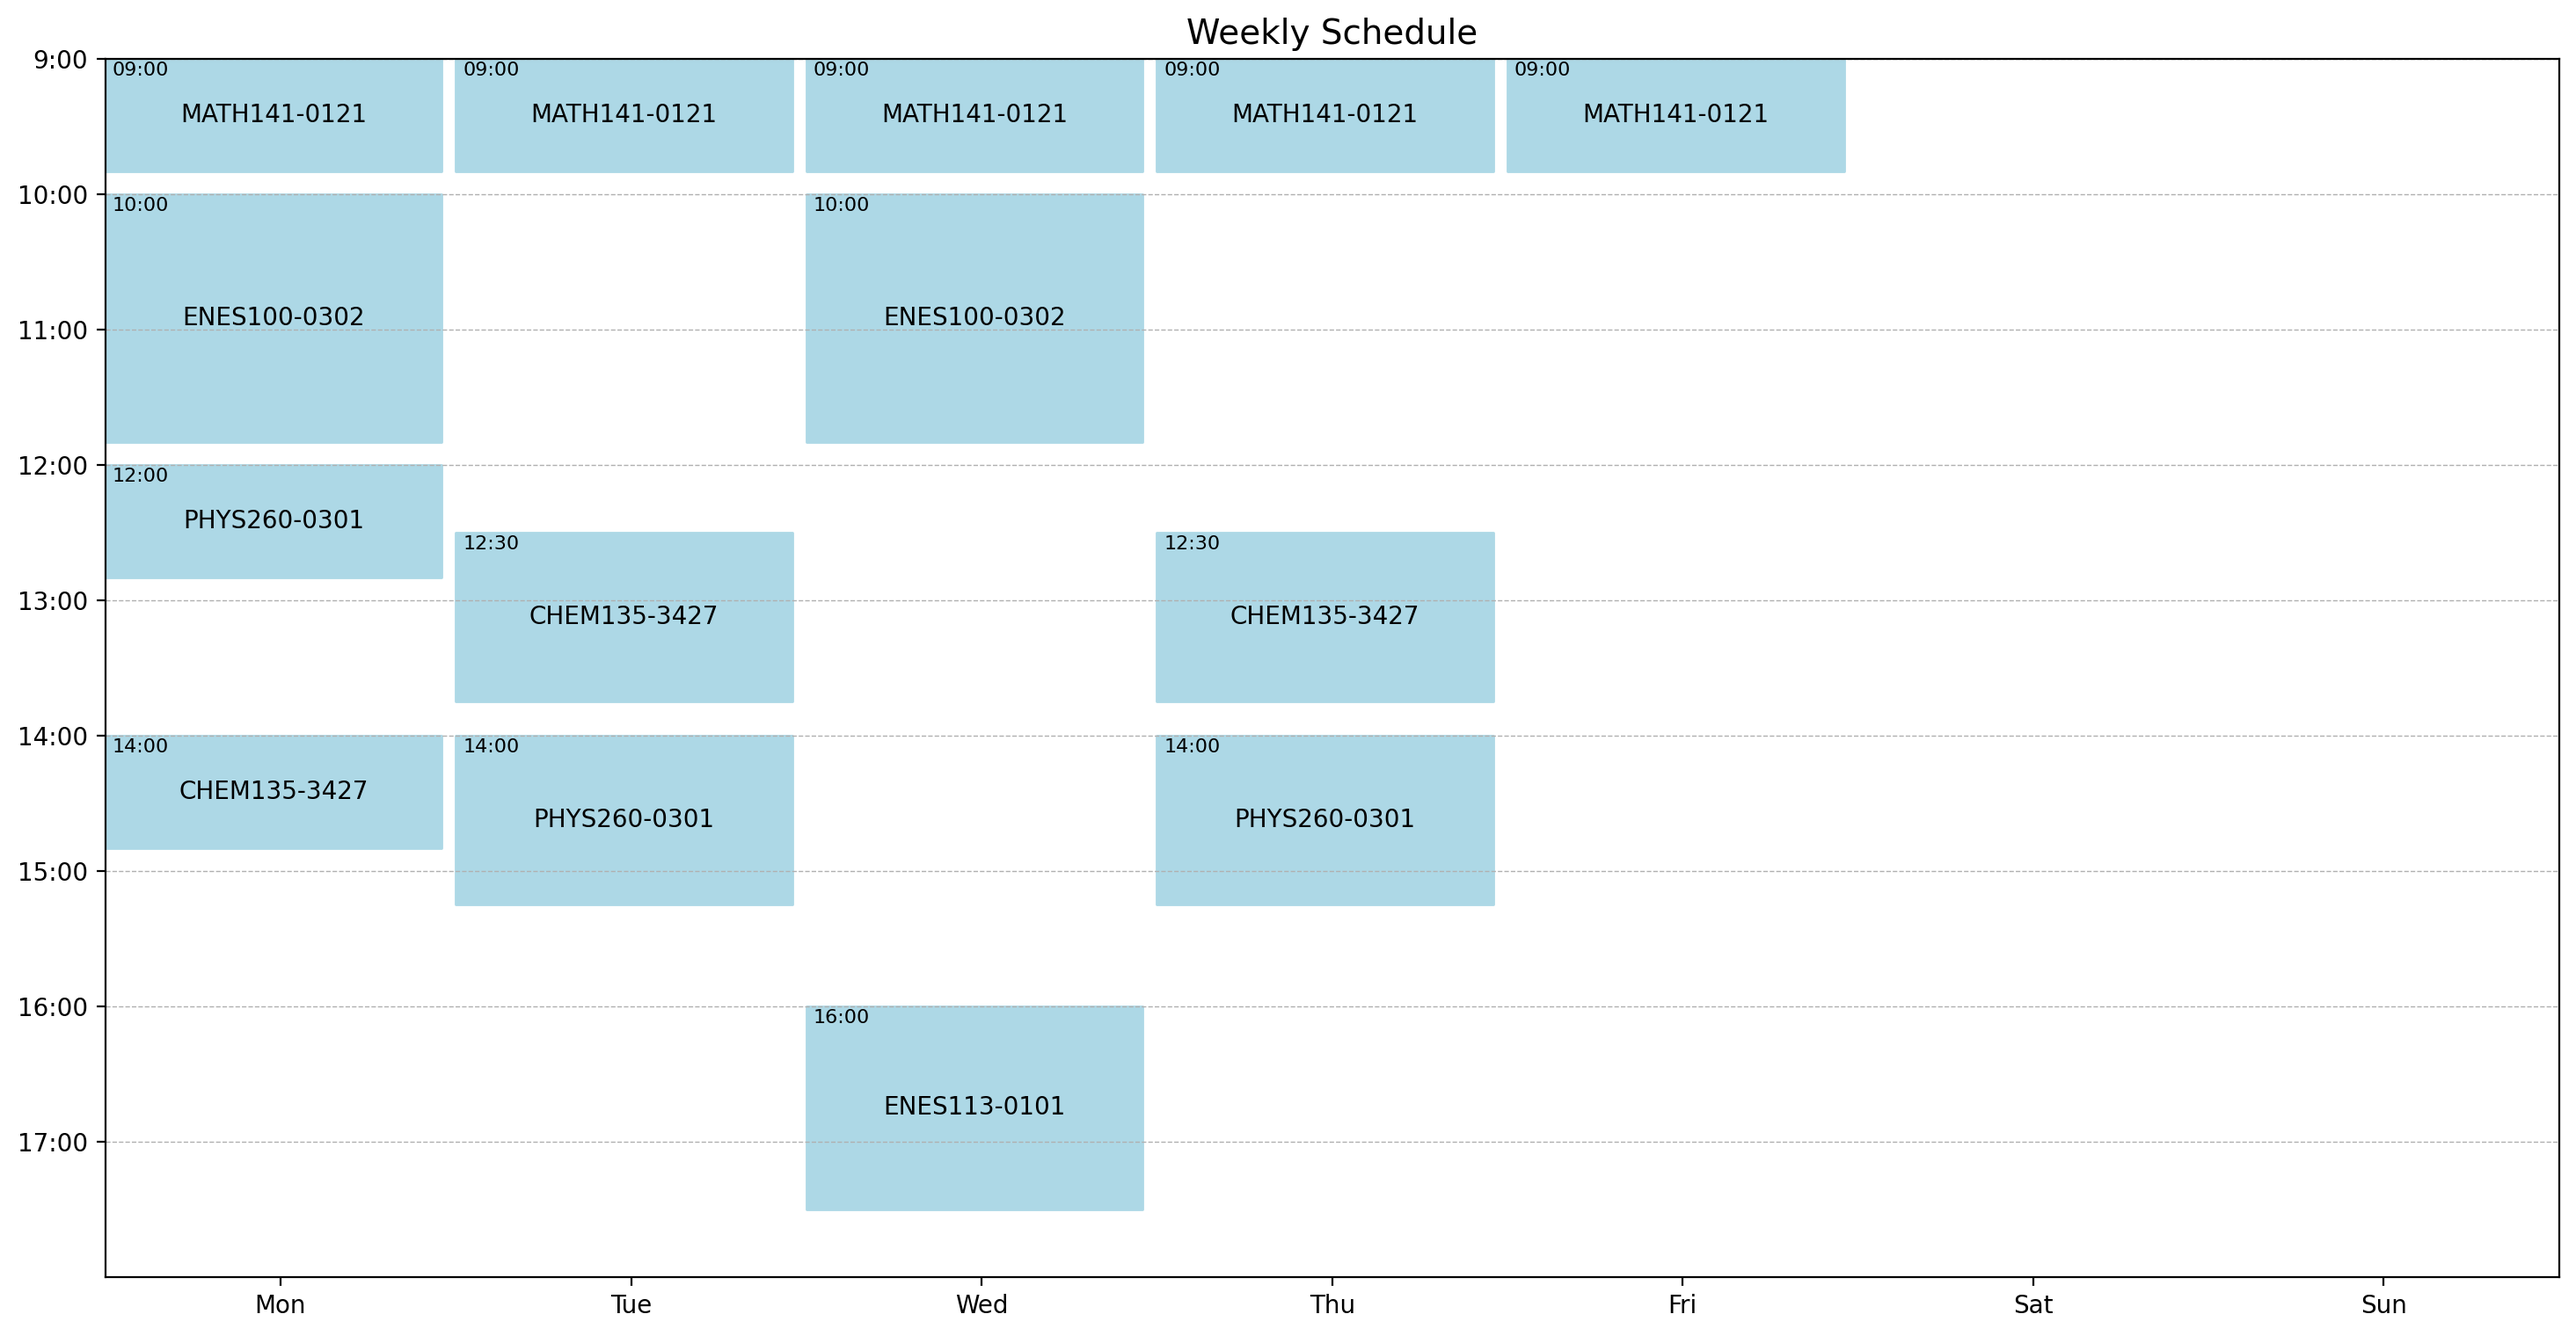
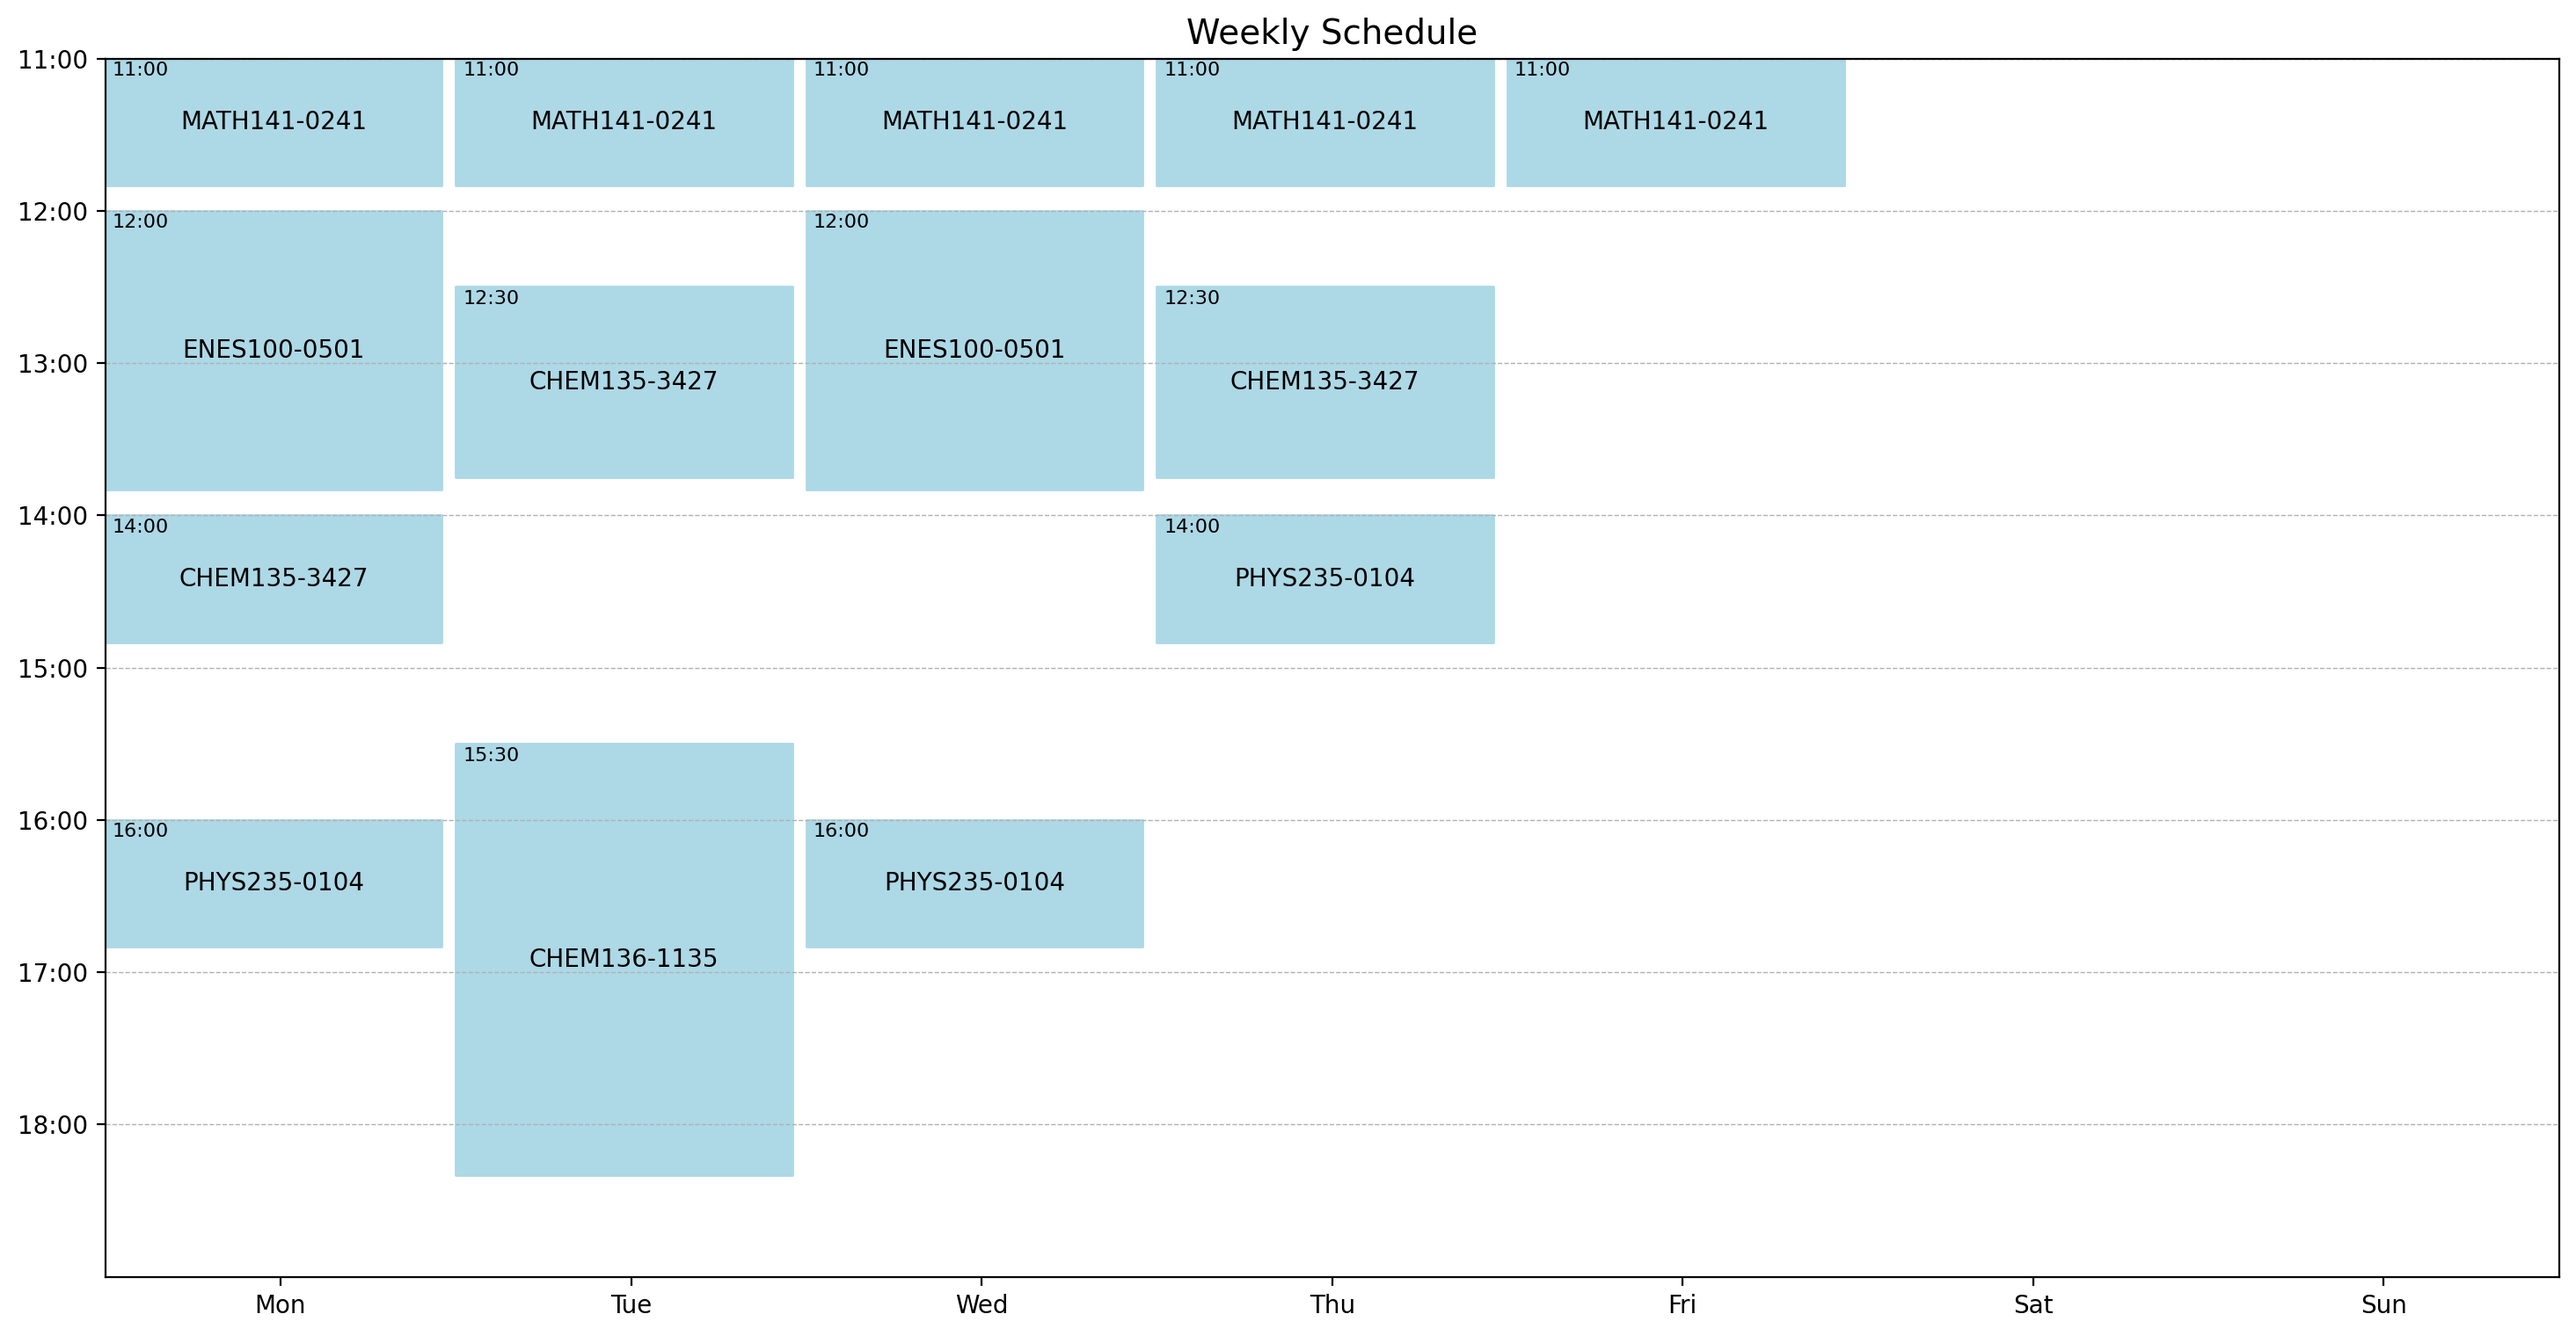
priority system, input file, latest class

diff --git a/schedule_builder.py b/schedule_builder.py
@@ -2,6 +2,7 @@ import json
 from datetime import datetime
 import api_interface as api
 import visualizer as viz
+import random
 
 """ SCHEDULE BUILDER -- Notes
 
@@ -30,13 +31,18 @@ Options for priorities:
 
 """
 
-courses = ["MATH141", "ENES113", "PHYS260", "CHEM135", "ENES100"]
+# courses = ["MATH141", "ENES113", "PHYS260", "CHEM135", "ENES100"]
+# courses = ["MATH141", "ENES102", "PHYS235", "CHEM135", "CHEM136"]
+# random.shuffle(courses)
+courses = []
 semester = "202308"
 FC = False      # Freshmen connection
 
-priority_list = [
-    {"priority": "earliest_class", "value": ["10:00am"]}
-]
+# priority_list = [
+#     {"priority": "latest_class", "value": ["2:00pm"]},
+#     {"priority": "earliest_class", "value": ["8:00am"]}
+# ]
+
 priority = 0
 
 schedule = {
@@ -52,20 +58,22 @@ def jprint(obj):
     text = json.dumps(obj, sort_keys=True, indent=4)
     print(text)
 
-def add_section(section_id):
+def add_section(section_id, constraints):
     """Adds a new section from section_id. Returns new section object."""
     new_section = Class(section_id)
     new_section.add_courses()
-    if new_section.check_conflicts():
+    if new_section.check_conflicts(constraints):
         # If there are no conflicts, add to schedule.
         new_section.add_blocks_to_schedule()
         return new_section
 
-def find_section(course):
-    """Runs through available sections for a course until it finds one with no conflicts."""
+def find_section(course, constraints=None):
+    """Runs through available sections for a course until it finds one with no conflicts.
+    course: self explanatory
+    constraints: List of constraints from the priority list that will affect section search."""
     sections = api.get_course(course)['sections']
     for sect in sections:
-        new_sect = add_section(sect)
+        new_sect = add_section(sect, constraints)
         if new_sect:
             print('Section found: ', new_sect.id)
             return new_sect
@@ -84,6 +92,10 @@ def overlap(first_inter, second_inter):
     if delta.seconds >= 0 and delta.days == 0:
         return delta.seconds
     return False
+
+def visualize():
+    viz.gen_text(schedule)
+    viz.visualize()
 
 class Activity():
     """Base class for activities that take up blocks of time."""
@@ -164,7 +176,7 @@ class Class(Activity):
                 if "Th" in meeting['days']: self.add_block("Th", meeting['building'], meeting['room'], start, end)
                 if "F" in meeting['days']: self.add_block("F", meeting['building'], meeting['room'], start, end)
 
-    def check_conflicts(self):
+    def check_conflicts(self, constraints):
         """Checks for various conflicts. If there are no conflicts, returns True. Else, returns False.
         - Conflicts with earliest preferred time
         - Conflicts with Freshman Connection option
@@ -174,14 +186,21 @@ class Class(Activity):
         if self.del_if_FC():
             return False
 
-
         # repeat for every day of the week
         for day in schedule:
             act_inters = self.get_blocks_inters(day)
             
-            too_early = self.is_too_early(day)
-            if too_early:
-                self.del_self(f"Starts {(3600*24) - (act_inter['starting_time'] - earliest_class).seconds} too early"); return False
+            try:
+                for constraint in constraints:
+                    if constraint['priority'] == 'earliest_class':
+                        too_early = self.is_too_early(day, convert_datetime(constraint['value'][0]))
+                        if too_early:
+                            self.del_self(f"Starts {too_early} seconds too early"); return False
+                    elif constraint['priority'] == "latest_class":
+                        too_late = self.is_too_late(day, convert_datetime(constraint['value'][0]))
+                        if too_late:
+                            self.del_self(f"Ends {too_late} seconds too late"); return False
+            except: pass
 
             # # match against earliest time
             # for act_inter in act_inters:
@@ -218,13 +237,21 @@ class Class(Activity):
             if self.id.split("-")[1].startswith("FC"):
                 self.del_self("FC class"); return True
 
-    def is_too_early(self, day):
+    def is_too_early(self, day, boundary):
         # match against earliest time
         for act_inter in self.get_blocks_inters(day):
-            if (act_inter['starting_time'] - earliest_class).seconds >= 0 and (act_inter['starting_time'] - earliest_class).days == 0:
+            if (act_inter['starting_time'] - boundary).seconds >= 0 and (act_inter['starting_time'] - boundary).days == 0:
                 return False
             else: 
-                return (3600*24) - (act_inter['starting_time'] - earliest_class).seconds
+                return (3600*24) - (act_inter['starting_time'] - boundary).seconds
+
+    def is_too_late(self, day, boundary):
+        # match against latest time
+        for act_inter in self.get_blocks_inters(day):
+            if (boundary - act_inter['ending_time']).seconds >= 0 and (boundary - act_inter['ending_time']).days == 0:
+                return False
+            else: 
+                return (3600*24) - (boundary - act_inter['ending_time']).seconds
 
 class Extra(Activity):
     """Activity subclass for extracurricular activities."""
@@ -245,13 +272,43 @@ class Extra(Activity):
         self.blocks.append(block)
         schedule[day].append(block)
 
-earliest_class = convert_datetime("9:00am")
-
 # workout = Extra('workout', "work out at eppley rec center")
 # workout.add_block("Tu", convert_datetime("9:50am"), convert_datetime("8:30pm"), "Eppley Rec Center")
 
-for course in courses:
-    find_section(course)
+earliest_class = convert_datetime("8:00am")
 
-viz.gen_text(schedule)
-viz.visualize()
+# if priority_list[priority]['priority'] == "earliest_class":
+#     print(f"PRIORITY {priority}: Earliest class at {priority_list[priority]['value'][0]}")
+#     earliest_class = convert_datetime(priority_list[priority]['value'][0])
+
+def search(courses, priority_list, semester, FC):
+    courses = courses
+    semester = semester
+    FC = FC
+
+    for i in enumerate(priority_list):
+        print(f"Priority {i}: {priority_list[i[0]]['priority']}")
+
+    success = True
+
+    for course in courses:      # loop through all courses
+        # all constraints are considered at first
+        priority = len(priority_list)
+        found = False
+        while not found:        # if the section is not found, try again with less constraints
+            try:
+                new_section = find_section(course, priority_list[0:priority])
+            except: new_section = find_section(course)
+
+            if new_section: # if a section cannot be found with current constraints
+                found = True
+            else:
+                if priority == -1:
+                    print('priorities are too constraining')
+                    success = False
+                    break
+                print('could not find with priority ', priority_list[0:priority])
+                priority -= 1
+
+    if success:
+        visualize()

diff --git a/input.py b/input.py
@@ -1,0 +1,13 @@
+import schedule_builder
+import random
+
+courses = ["MATH141", "ENES100", "PHYS235", "CHEM135", "CHEM136"]
+# random.shuffle(courses)
+semester = "202308"
+FC = False      # Freshmen connection
+
+priority_list = [
+    {"priority": "earliest_class", "value": ["11:00am"]}
+]
+
+schedule_builder.search(courses, priority_list, semester, FC)

diff --git a/tempCodeRunnerFile.py b/tempCodeRunnerFile.py
@@ -1,2 +1,1 @@
-ourses:
-    find_section(
+(boundary - act_inter['starting_time']).days

diff --git a/README.md b/README.md
@@ -1,2 +1,2 @@
-# umd-schedule-builder
- Schedule builder and visualizer for UMD
+# UMD Schedule Builder and Visualizer
+Schedule builder and visualizer specifically for UMD courses that considers sleep hours, professor preferences, extracurricular activities, and more.
